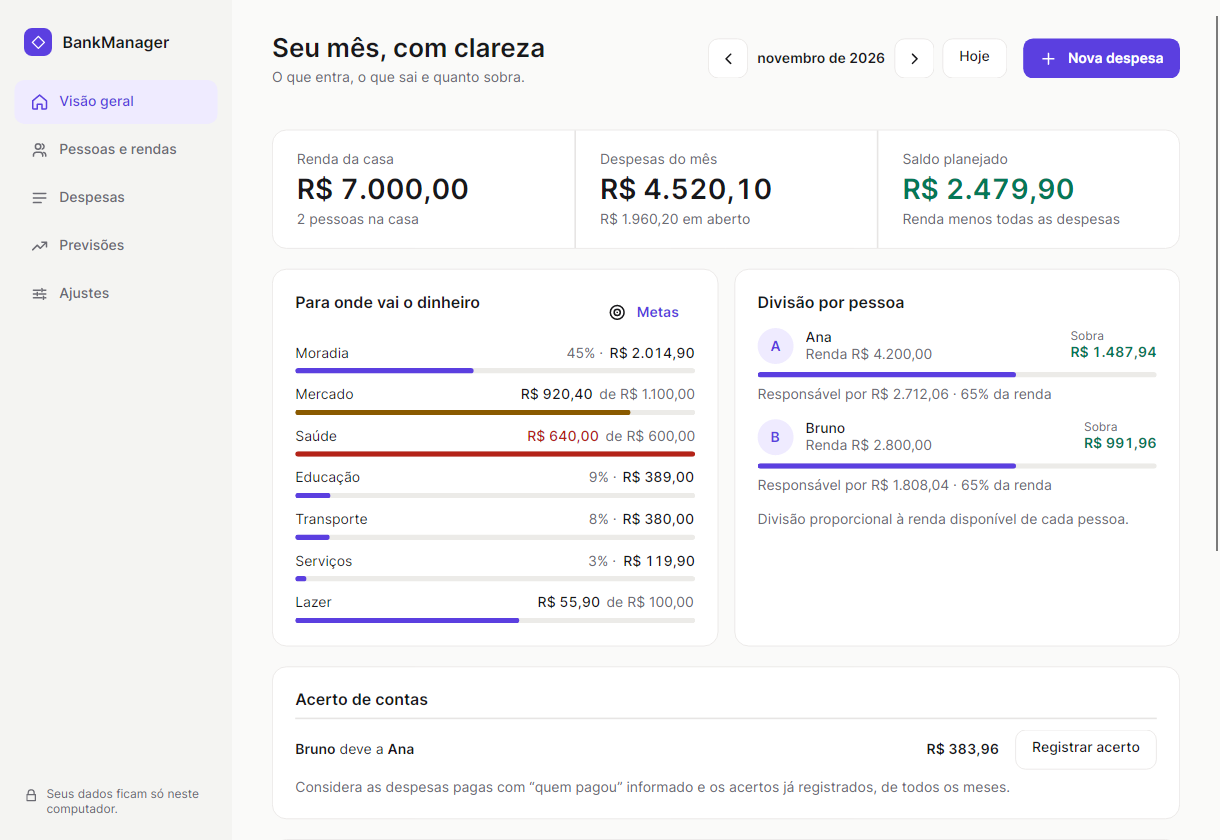
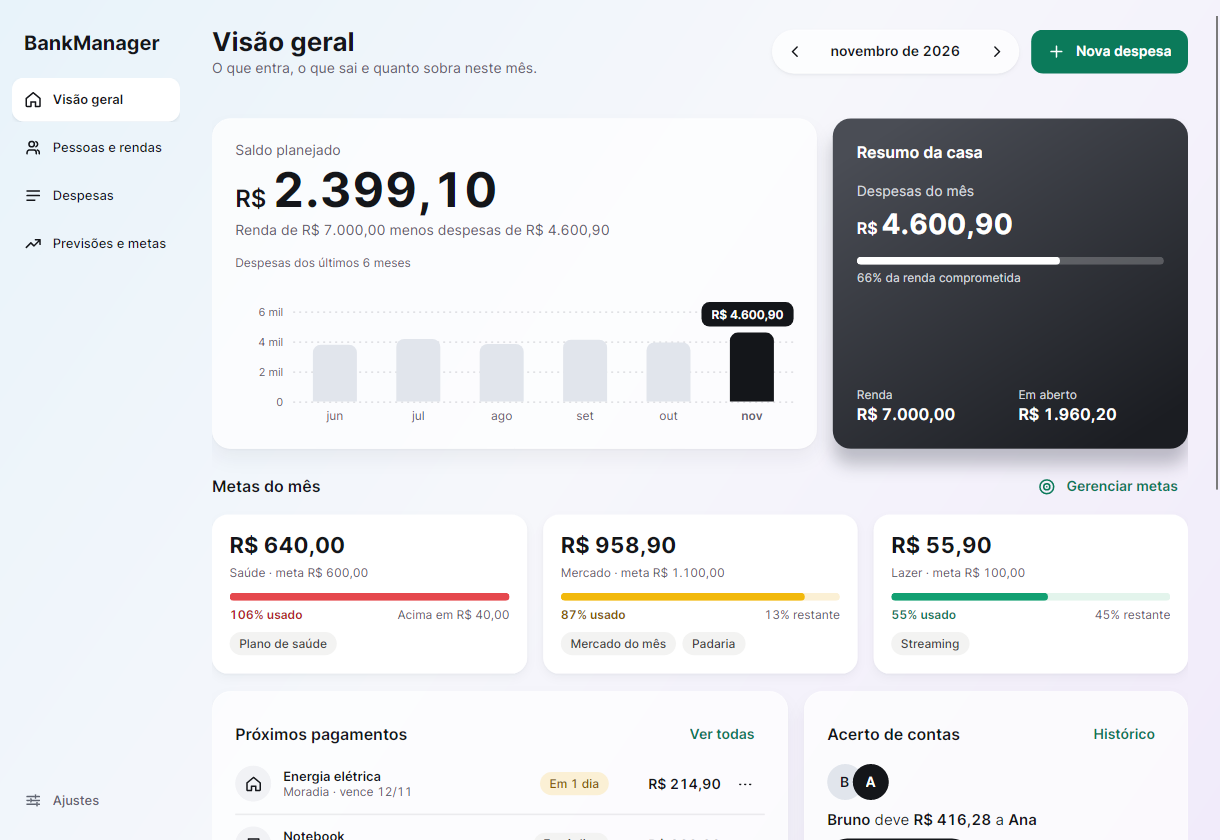
docs: versão 2.1.0, capturas novas e documentação do Estilo C
Atualiza README, guia do código, LEIA-ME e notas de versão para o visual novo, a
visão geral com gráfico e últimas movimentações e o submenu de Previsões e metas.
Capturas regeneradas com dados fictícios; o roteiro de interface confere o eixo do
gráfico e as abas novas.

diff --git a/BankManager.UiTests/Program.cs b/BankManager.UiTests/Program.cs
@@ -126,6 +126,9 @@ AppBuilder.Configure<App>().UsePlatformDetect().WithInterFont().AfterSetup(build
                 await Click("Cancelar");
                 exitCode = 0; return;
             }
+            // O eixo do gráfico começa em zero e usa passos "redondos"; sem dados, não há eixo a desenhar além do zero.
+            Check(BankManager.Controls.BarChart.Axis(4600.90m) == (6000m, 2000m) && BankManager.Controls.BarChart.Axis(950m) == (1000m, 500m) && BankManager.Controls.BarChart.Axis(0m) == (0m, 0m)
+                && BankManager.Controls.BarChart.AxisLabel(1500m, Money.Culture) == "1,5 mil" && BankManager.Controls.BarChart.AxisLabel(0m, Money.Culture) == "0", "Chart axis starts at zero with round steps");
             // Cenário 1: cadastro de pessoas e rendas pela interface, incluindo o fechamento do modal ao salvar.
             await Click("Cadastrar primeira pessoa", main);
             var inputs = Active().GetVisualDescendants().OfType<TextBox>().ToArray(); inputs.First(i => i.PlaceholderText == "Ex.: Ana").Text = "Ana"; inputs.First(i => i.PlaceholderText == "Ex.: 3000,00").Text = "3000,00";

diff --git a/README.md b/README.md
@@ -1,11 +1,13 @@
 # BankManager
 
-Aplicativo desktop de gestão financeira individual e familiar em **C# / .NET 10 e Avalonia 12.1.4**. Interface em português, com tema claro, escuro ou automático (segue o sistema), menu lateral e armazenamento local. Começa vazio, sem dados fictícios na base do usuário.
+Aplicativo desktop de gestão financeira individual e familiar em **C# / .NET 10 e Avalonia 12.1.4**. Interface em português, arejada e minimalista (verde e tons neutros), com tema claro, escuro ou automático (segue o sistema), menu lateral e armazenamento local. Começa vazio, sem dados fictícios na base do usuário.
 
 **Sobre o desenvolvimento:** este projeto foi desenvolvido com **vibe coding**, usando o Codex para gerar e ajustar o código a partir de instruções em linguagem natural. A proposta, os requisitos e as decisões de produto foram definidos pelo autor do projeto.
 
-![Visão geral no tema claro, com dados de demonstração](docs/visao-geral.png)
-![Lista de despesas no tema escuro, com dados de demonstração](docs/despesas-escuro.png)
+![Visão geral no tema claro: saldo planejado com gráfico, resumo da casa e metas do mês (dados de demonstração)](docs/visao-geral.png)
+![Fim da visão geral: próximos pagamentos, acerto de contas e últimas movimentações (dados de demonstração)](docs/visao-geral-2.png)
+![Metas por categoria em Previsões e metas (dados de demonstração)](docs/metas.png)
+![Lista de despesas no tema escuro (dados de demonstração)](docs/despesas-escuro.png)
 
 ## Baixar pronto e compartilhar
 
@@ -13,10 +15,10 @@ Aplicativo desktop de gestão financeira individual e familiar em **C# / .NET 10
 
 | Computador | Arquivo | Como usar |
 | --- | --- | --- |
-| Windows 64 bits (Intel/AMD) | `BankManager-2.0.0-win-x64-setup.exe` | **Instalador (recomendado).** Dê dois cliques; instala só para você, sem administrador, com atalho no menu Iniciar |
-| Windows 64 bits (Intel/AMD) | `BankManager-2.0.0-win-x64.zip` | Portátil: extrair **tudo** e abrir `BankManager.exe` |
-| Linux 64 bits (Intel/AMD) | `BankManager-2.0.0-x86_64.AppImage` | **Um arquivo só (recomendado).** `chmod +x` e dois cliques, ou `./BankManager-2.0.0-x86_64.AppImage` |
-| Linux 64 bits (Intel/AMD) | `BankManager-2.0.0-linux-x64.tar.gz` | Portátil: extrair **tudo**, `./Iniciar.sh`; `./Instalar-atalho.sh` cria o atalho e o ícone no menu |
+| Windows 64 bits (Intel/AMD) | `BankManager-2.1.0-win-x64-setup.exe` | **Instalador (recomendado).** Dê dois cliques; instala só para você, sem administrador, com atalho no menu Iniciar |
+| Windows 64 bits (Intel/AMD) | `BankManager-2.1.0-win-x64.zip` | Portátil: extrair **tudo** e abrir `BankManager.exe` |
+| Linux 64 bits (Intel/AMD) | `BankManager-2.1.0-x86_64.AppImage` | **Um arquivo só (recomendado).** `chmod +x` e dois cliques, ou `./BankManager-2.1.0-x86_64.AppImage` |
+| Linux 64 bits (Intel/AMD) | `BankManager-2.1.0-linux-x64.tar.gz` | Portátil: extrair **tudo**, `./Iniciar.sh`; `./Instalar-atalho.sh` cria o atalho e o ícone no menu |
 
 Todos incluem o .NET: não é preciso instalar SDK, Rider ou Visual Studio. Para compartilhar, envie o **link da release** ou o arquivo **completo**. Não envie só o executável, nem seus backups financeiros. Veja [as instruções incluídas no pacote](docs/LEIA-ME.txt).
 
@@ -46,8 +48,8 @@ A restauração inicial requer NuGet ou pacotes já presentes no cache. O uso do
 2. Em **Despesas**, adicione descrição, categoria, vencimento, valor e responsáveis. Para uma compra detalhada, expanda **Lista de itens da compra**, preencha quantidade e preço e clique em **Adicionar item** para cada produto.
 3. Escolha divisão **individual**, **igual** ou **proporcional**. Use **Conferir divisão antes de salvar** para ver o resultado.
 4. Para dívidas parceladas, informe o **valor total**, incluindo juros já negociados, e até 120 parcelas. Cada vencimento é criado no mês correspondente. Listas de itens são lançadas à vista.
-5. Para contas fixas (aluguel, internet, assinaturas), marque **Repetir todo mês** ao criar a despesa. Em **Despesas → Recorrentes** você encerra ou remove cada uma. Na lista de despesas, use o menu **⋯** de cada linha para marcar como paga, editar ou excluir; filtre por busca, situação e categoria e navegue entre meses. **Ctrl+N** abre uma nova despesa em qualquer tela.
-6. Em **Previsões**, consulte a estimativa do mês seguinte ao selecionado.
+5. Para contas fixas (aluguel, internet, assinaturas), marque **Repetir todo mês** ao criar a despesa. Em **Despesas → Recorrentes** (ou em **Previsões e metas → Despesas recorrentes**) você encerra ou remove cada uma. Na lista de despesas, use o menu **⋯** de cada linha para marcar como paga, editar ou excluir; filtre por busca, situação e categoria e navegue entre meses. **Ctrl+N** abre uma nova despesa em qualquer tela.
+6. Em **Previsões e metas**, um submenu reúne as metas por categoria, a previsão do mês seguinte ao selecionado, as despesas recorrentes e o acerto de contas.
 7. Em **Ajustes**, escolha o tema (claro, escuro ou automático) e exporte backups para outro local. Importações são validadas e pedem confirmação antes de substituir o histórico.
 
 ## Regras financeiras
@@ -76,9 +78,18 @@ Na lista de despesas, o seletor **Este mês / Todos os meses** amplia a busca ao
 
 As 8 categorias padrão (Moradia, Mercado, Transporte, Saúde, Educação, Lazer, Serviços e Outros) são fixas. Em **Ajustes → Categorias** você cria as suas (até 40, nomes de até 30 caracteres, sem repetir um nome existente, ignorando maiúsculas). Renomear uma categoria atualiza todas as despesas e recorrências que a usam. Excluir só é possível quando nada a usa. Categorias próprias entram nos filtros, no editor e nas previsões.
 
+## Visão geral
+
+De cima para baixo:
+
+- **Saldo planejado:** renda do mês menos todas as despesas do mês (pagas ou em aberto), com um gráfico das despesas dos últimos 6 meses até o mês selecionado. O eixo do gráfico sempre começa em zero, para não exagerar diferenças; passe o mouse em uma barra para ver o valor. Meses sem despesas aparecem com uma barra mínima.
+- **Resumo da casa:** despesas do mês, quanto da renda elas comprometem, renda e valor em aberto.
+- **Metas do mês**, **Próximos pagamentos** (as três contas em aberto mais próximas, com o menu **⋯**) e **Acerto de contas**.
+- **Últimas movimentações:** as rendas do mês e as despesas já marcadas como pagas, das mais recentes para as mais antigas (até 6; "Ver tudo" abre Despesas). Como a renda só tem mês, ela entra com a data do dia 1; a despesa entra pela data de vencimento, porque o aplicativo não guarda o dia do pagamento. Quando há mais itens do que cabem, a última linha fica esmaecida.
+
 ## Metas por categoria
 
-Em **Visão geral → Metas**, defina um limite mensal para cada categoria (campo vazio = sem meta). A meta é única por categoria e vale para todos os meses; mudá-la muda também a leitura dos meses passados. Na visão geral, cada categoria com meta mostra "R$ gasto de R$ meta", e a barra acompanha a meta: cor de destaque abaixo de 80%, âmbar de 80% a 100% e vermelha acima. O gasto considera todas as despesas do mês na categoria, pagas ou em aberto. Renomear uma categoria leva a meta junto; excluir a categoria remove a meta.
+Em **Gerenciar metas** (na Visão geral ou em **Previsões e metas → Metas por categoria**), defina um limite mensal para cada categoria (campo vazio = sem meta). A meta é única por categoria e vale para todos os meses; mudá-la muda também a leitura dos meses passados. Cada meta vira um cartão com o valor gasto, a meta, o percentual usado, o que resta (ou quanto passou) e as despesas da categoria. A barra é verde até 79%, âmbar de 80% a 100% e vermelha acima de 100%. A Visão geral mostra as três metas mais próximas do limite; a lista completa fica em Previsões e metas. O gasto considera todas as despesas do mês na categoria, pagas ou em aberto. Renomear uma categoria leva a meta junto; excluir a categoria remove a meta.
 
 ## Despesas recorrentes
 
@@ -91,7 +102,7 @@ Marcar **Repetir todo mês** guarda um modelo (descrição, categoria, valor, di
 
 ## Quem pagou e acerto de contas
 
-Ao marcar uma despesa como paga, o aplicativo pergunta **quem pagou** (ou "Não informar"). Com uma só pessoa cadastrada, não pergunta. O cartão **Acerto de contas**, na Visão geral, mostra quem deve a quem:
+Ao marcar uma despesa como paga, o aplicativo pergunta **quem pagou** (ou "Não informar"). Com uma só pessoa cadastrada, não pergunta. O cartão **Acerto de contas**, na Visão geral e em **Previsões e metas → Acerto de contas**, mostra quem deve a quem:
 
 - Cada participante diferente de quem pagou deve a sua parte (a mesma da coluna Divisão) a quem pagou. Se a pessoa que pagou não é responsável pela despesa, o responsável deve o valor inteiro.
 - O saldo é **acumulado**, somando todos os meses, e as dívidas de cada par se compensam: Ana pagou R$ 200 por Bruno e Bruno pagou R$ 120 por Ana, então Bruno deve R$ 80 a Ana.
@@ -178,10 +189,10 @@ No Windows, use `python` no lugar de `python3`. O script escolhe o SDK em `~/.do
 Para conferir o download no Linux, no diretório dos arquivos:
 
 ```bash
-sha256sum -c BankManager-2.0.0-linux-x64.tar.gz.sha256
+sha256sum -c BankManager-2.1.0-linux-x64.tar.gz.sha256
 ```
 
-No PowerShell, execute `Get-FileHash .\BankManager-2.0.0-win-x64.zip -Algorithm SHA256` e compare o resultado com o conteúdo do arquivo `.sha256`.
+No PowerShell, execute `Get-FileHash .\BankManager-2.1.0-win-x64.zip -Algorithm SHA256` e compare o resultado com o conteúdo do arquivo `.sha256`.
 
 ### Instalador do Windows e AppImage
 
@@ -200,7 +211,7 @@ O workflow [Build and release](.github/workflows/release.yml) compila, testa e e
 
 1. Atualize `Version` em `BankManager/BankManager.csproj`, as instruções com nomes de arquivos e `docs/RELEASE-NOTES.md`.
 2. Faça commit e push dessas mudanças.
-3. Crie e envie uma tag correspondente, por exemplo `git tag v2.0.1` e `git push origin v2.0.1`.
+3. Crie e envie uma tag correspondente, por exemplo `git tag v2.1.1` e `git push origin v2.1.1`.
 4. O workflow publica instaladores e pacotes na página Releases somente após todos os jobs passarem.
 
 Referências: [publicação desktop do Avalonia no Linux](https://docs.avaloniaui.net/docs/deployment/linux) e [modelos de distribuição do .NET](https://learn.microsoft.com/en-us/dotnet/core/deploying/).

diff --git a/docs/GUIA-DO-CODIGO.md b/docs/GUIA-DO-CODIGO.md
@@ -8,11 +8,11 @@ Este guia liga os arquivos aos comportamentos do aplicativo. Os comentários em 
 2. `BankManager/App.axaml.cs`: carrega recursos e cria a janela principal.
 3. `BankManager.Core/Models.cs`: vocabulário do domínio: pessoas, renda mensal, despesas, itens e tipos de divisão.
 4. `BankManager.Core/BudgetRules.cs`: o que um orçamento válido pode conter.
-5. `BankManager.Core/FinanceEngine.cs`: consulta mensal, divisão, saldos e estimativa.
+5. `BankManager.Core/FinanceEngine.cs`: consulta mensal, divisão, saldos, estimativa, totais por mês (gráfico) e últimas movimentações.
 6. `BankManager.Core/LocalStore.cs`: leitura, validação de arquivos, gravação, backup e bloqueio de outra instância.
-7. `BankManager/MainWindow.cs`: estado ativo, navegação, gravação (`Commit`) e tratamento de erros. Cada página é uma parte da mesma classe (`partial class`), em `BankManager/Pages/`: `DashboardPage.cs`, `PeoplePage.cs`, `ExpensesPage.cs`, `ForecastPage.cs` e `SettingsPage.cs`.
+7. `BankManager/MainWindow.cs`: estado ativo, navegação, gravação (`Commit`) e tratamento de erros. Cada página é uma parte da mesma classe (`partial class`), em `BankManager/Pages/`: `DashboardPage.cs`, `PeoplePage.cs`, `ExpensesPage.cs`, `ForecastPage.cs` (Previsões e metas, com o submenu) e `SettingsPage.cs`; os blocos reaproveitados ficam em `GoalPanels.cs`, `SettlementPanels.cs`, `RecurrencesDialog.cs` e `CsvDialogs.cs`.
 8. `BankManager/Ui.cs`: fábricas de controles (`Text`, `Button`, `Icon`, `Card`, `Dialog`…).
-9. `BankManager/Styles/`: `Tokens.axaml` (todas as cores, para os temas claro e escuro), `Icons.axaml` (ícones vetoriais) e `Controls.axaml` (estilos dos controles). `App.axaml` apenas reúne esses arquivos.
+9. `BankManager/Styles/`: `Tokens.axaml` (todas as cores, para os temas claro e escuro), `Icons.axaml` (ícones vetoriais) e `Controls.axaml` (estilos dos controles). `App.axaml` apenas reúne esses arquivos. `BankManager/Controls/BarChart.cs` é o gráfico de barras, desenhado pelo próprio controle.
 10. `BankManager.Core/AppSettings.cs`: preferências do aplicativo (tema) em `settings.json`.
 11. `BankManager.Core/RecurrenceEngine.cs` e `BudgetMigrations.cs`: despesas mensais e atualização de arquivos antigos.
 12. `BankManager.Core/SettlementEngine.cs`: quem deve a quem (acerto de contas).
@@ -124,7 +124,9 @@ Em `Ui.Field`, o rótulo e a ajuda também são registrados nas propriedades de 
 
 ### Temas, cores e ícones
 
-Nenhuma cor aparece no código C#. `Styles/Tokens.axaml` define cada cor com nome (por exemplo `SurfaceBrush`, `AccentBrush`) duas vezes, uma para `Light` e outra para `Dark`, em `ThemeDictionaries`. Os estilos de `Controls.axaml` e o C# só citam esses nomes (`DynamicResource` ou classes como `muted`, `positive`, `negative`), então trocar de tema atualiza tudo ao vivo. Para mudar uma cor, edite apenas o `Tokens.axaml`.
+Nenhuma cor aparece no código C#. `Styles/Tokens.axaml` define cada cor com nome (por exemplo `SurfaceBrush`, `PrimaryBrush`) duas vezes, uma para `Light` e outra para `Dark`, em `ThemeDictionaries`. Os estilos de `Controls.axaml` e o C# só citam esses nomes (`DynamicResource` ou classes como `muted`, `positive`, `negative`), então trocar de tema atualiza tudo ao vivo. Para mudar uma cor, edite apenas o `Tokens.axaml`.
+
+O visual é o "Estilo C": o fundo da janela é um degradê (`BgBrush`, um `LinearGradientBrush`), os cartões comuns são translúcidos (`SurfaceBrush`, branco com opacidade; não há desfoque real nem acrílico, que variam por sistema), os cartões de meta são sólidos (`SolidSurfaceBrush`) e o "Resumo da casa" é um cartão escuro em degradê (`SummaryBrush`). As sombras também são tokens (`CardShadow`, `SolidShadow`, `SummaryShadow`, `NavShadow`), aplicadas com `BoxShadow`. Cada estado tem três cores: a do texto (`PositiveBrush`, `WarnBrush`, `NegativeBrush`), a do fundo suave (`...SoftBrush`, usada em chips e trilhos) e a da barra (`ProgressOkBrush`, `ProgressWarnBrush`, `ProgressOverBrush`). O estilo da janela liga os algarismos tabulares (`FontFeatures="+tnum"`) para o aplicativo inteiro.
 
 A preferência (Automático, Claro ou Escuro) fica em `settings.json`, lida por `SettingsStore` antes de a janela aparecer. `App.ApplyTheme` ajusta `RequestedThemeVariant`; no modo Automático ele volta ao padrão, que acompanha o sistema.
 
@@ -132,7 +134,9 @@ Os ícones são traços vetoriais 24×24 em `Icons.axaml`; `Ui.Icon("Home")` os 
 
 ### Componentes de interface
 
-`Ui.cs` reúne as peças reaproveitadas pelas páginas: `Chip` (etiqueta de situação), `Avatar` (inicial da pessoa), `Segmented` (opções lado a lado), `Collapsible` (seção de ajuda que abre e fecha), `Divider` e `Button` (com ícone, ou só ícone). Cada página monta o próprio cabeçalho com `PageHeader` (título, navegação de mês e, se for o caso, "Nova despesa"). A decisão de "quantos dias faltam" não está na interface: `DueStatus.Of` (Core, com testes) a calcula e a tela só escolhe o texto e a cor do chip.
+`Ui.cs` reúne as peças reaproveitadas pelas páginas: `Chip` (etiqueta de situação), `Avatar` (inicial da pessoa), `Segmented` (opções lado a lado), `Collapsible` (seção de ajuda que abre e fecha), `Divider`, `IconCircle` (círculo com o ícone da categoria, escolhido por `CategoryIconName`), `Card` (estilos `card`, `solid` e `summary`) e `Button` (com ícone, ou só ícone; variantes `primary`, `ink`, `ghost`, `link`). Cada página monta o próprio cabeçalho com `PageHeader` (título, navegação de mês em pílula e "Nova despesa").
+
+O gráfico da visão geral é o controle `BarChart` (`Controls/BarChart.cs`): ele recebe os pontos prontos e desenha tudo em `Render` com `DrawingContext` (linhas pontilhadas, barras, rótulos e balão), sem biblioteca externa. `BarChart.Axis` escolhe o topo e o passo do eixo, que sempre começa em zero. As cores chegam por propriedades preenchidas no estilo de `Controls.axaml`, então o gráfico acompanha o tema. Os dados vêm de `FinanceEngine.MonthlyTotals` e a lista "Últimas movimentações" de `FinanceEngine.RecentMovements`, ambos no Core e com testes. A decisão de "quantos dias faltam" não está na interface: `DueStatus.Of` (Core, com testes) a calcula e a tela só escolhe o texto e a cor do chip.
 
 ### Por que não MVVM (por enquanto)
 

diff --git a/docs/RELEASE-NOTES.md b/docs/RELEASE-NOTES.md
@@ -1,34 +1,35 @@
-BankManager 2.0: gestão financeira individual e familiar, em português, com dados locais e sem internet.
+BankManager 2.1: gestão financeira individual e familiar, em português, com dados locais e sem internet.
 
-## Novidades
+## Novidades da 2.1
 
-- **Novo visual** minimalista, com tema **claro, escuro ou automático** (segue o sistema), ícones próprios e telas redesenhadas.
-- **Despesas recorrentes:** aluguel, internet e assinaturas se repetem todo mês (até 12 meses à frente), com opção de encerrar.
-- **Quem pagou e acerto de contas:** "Bruno deve R$ 383,96 a Ana", com registro de acertos e histórico.
-- **Várias rendas por pessoa** no mês (salário, extra, 13º).
-- **Categorias personalizadas** e **metas mensais por categoria**, com barra de progresso na visão geral.
-- **Busca em todos os meses**, ignorando maiúsculas e acentos.
-- **Planilhas:** exportar despesas em CSV (abre no Excel) e **importar o extrato do banco** com prévia.
-- Atalho **Ctrl+N** para nova despesa e menu **⋯** em cada despesa.
+- **Visual novo ("Estilo C"):** arejado e minimalista, em verde e tons neutros, com fundo em degradê, cartões translúcidos e menu lateral mais estreito. Continua com tema **claro, escuro ou automático**.
+- **Visão geral redesenhada:** saldo planejado em destaque, **gráfico das despesas dos últimos 6 meses**, cartão "Resumo da casa", metas do mês em cartões, próximos pagamentos e acerto de contas.
+- **Últimas movimentações:** nova lista com as rendas do mês e as despesas pagas, das mais recentes para as mais antigas.
+- **Previsões e metas:** a página ganhou um submenu com metas por categoria, previsão do próximo mês, despesas recorrentes e acerto de contas. Tudo continua acessível também de onde já estava.
+- **Pessoas e rendas** mostra quanto cada pessoa assume das despesas do mês e quanto sobra.
+- Ícones por categoria e números com algarismos de mesma largura em todo o aplicativo.
+
+As regras de cálculo e o formato dos dados **não mudaram**: a 2.1 abre os dados da 2.0 e vice-versa.
 
 ## Instalar
 
-**Windows x64:** `BankManager-2.0.0-win-x64-setup.exe` (instalador, sem administrador) ou `BankManager-2.0.0-win-x64.zip` (portátil).
+**Windows x64:** `BankManager-2.1.0-win-x64-setup.exe` (instalador, sem administrador) ou `BankManager-2.1.0-win-x64.zip` (portátil).
 
-**Linux x64:** `BankManager-2.0.0-x86_64.AppImage` (um arquivo; `chmod +x` e abrir) ou `BankManager-2.0.0-linux-x64.tar.gz` (portátil, com `./Instalar-atalho.sh`).
+**Linux x64:** `BankManager-2.1.0-x86_64.AppImage` (um arquivo; `chmod +x` e abrir) ou `BankManager-2.1.0-linux-x64.tar.gz` (portátil, com `./Instalar-atalho.sh`).
 
 Todos incluem o .NET. O arquivo `LEIA-ME.txt` traz as instruções completas.
 
-## Atualizar a partir da 1.x
+## Atualizar
 
-Seus dados são lidos e atualizados sem perda na primeira vez que a versão 2 salvar; o arquivo antigo fica como cópia anterior. **Exporte um backup antes.** O BankManager 1.x não abre dados salvos pela versão 2.
+Da 2.0: basta instalar por cima; nada muda nos dados. Da 1.x: seus dados são lidos e atualizados sem perda na primeira vez que a versão 2 salvar, e o arquivo antigo fica como cópia anterior; **exporte um backup antes**, porque o BankManager 1.x não abre dados salvos pela versão 2.
 
 O aplicativo nunca acessa a internet e não tem atualizador próprio: no Windows, rode o instalador novo; no Linux, baixe o AppImage novo (ou use AppImageUpdate).
 
 ## Limitações conhecidas
 
 - Instaladores e pacotes **sem assinatura digital**: o Windows pode avisar sobre editor não identificado.
-- O fluxo visual no **Windows** (fontes, DPI, instalador) ainda não foi validado em um Windows real; a CI o testa, mas como aviso.
+- O visual no **Windows** (fontes, DPI, degradê, sombras, instalador) ainda não foi validado em um Windows real; a CI o testa, mas como aviso.
+- Em "Últimas movimentações", a despesa paga aparece na data de **vencimento**: o aplicativo não guarda o dia do pagamento.
 - Linux exige X11/XWayland e bibliotecas do sistema; sem ARM nem Alpine/musl. macOS não tem pacote.
 - Os dados não são criptografados.
 
